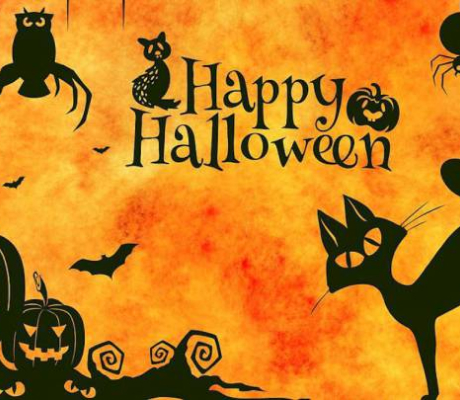
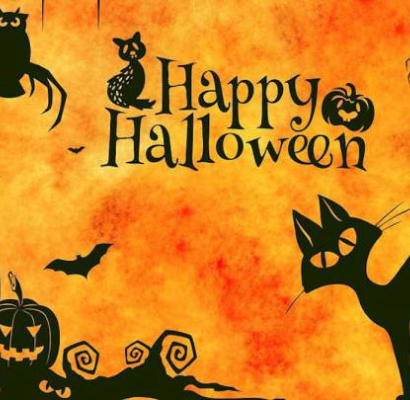
halloween acabado

diff --git a/index.html b/index.html
@@ -20,6 +20,8 @@
     <!-- Recordar que favicon.ico tiene que estar en el directorio inicial -->
 
     <!-- links de estilos -->
+
+    <link href="https://fonts.googleapis.com/css2?family=Grenze+Gotisch&display=swap" rel="stylesheet"> 
     <link rel="stylesheet" href="css/normalize.css" />
     <link rel="stylesheet" href="css/style.css" />
     <link rel="stylesheet" href="css/index.css" />
@@ -33,9 +35,11 @@
 
     <header class="header">
 
-      <img class="header__img1" src="img/desktop/gatos@1x.jpg" alt="">
+      
+
+      <img class="header__img1" src="img/desktop/calabaza1.jpg" alt="">
       <img class="header__img2" src="img/desktop/halloween@1x.jpg" alt="">
-      <img class="header__img3" src="img/desktop/gatos@2x.jpg" alt="">
+      <img class="header__img3" src="img/desktop/calabaza2.jpg" alt="">
 
       <!-- nav (el navegador de toda la web) -->
 
@@ -44,15 +48,50 @@
       </nav>
     </header>
     <!-- Main (centro de la página, zona central) -->
-    <main>
+    <main class="main">
+
+      <p class="main__parrafo1" > 
+
+
+        Halloween  también conocido como Noche de Brujas o Noche de Víspera de Difuntos, es una celebración moderna resultado del sincretismo originado por la cristianización de la fiesta del fin de verano de origen celta llamada Samhain, que perdura en Galicia y otros lugares como fiesta del Magosto.</p>
+
+      <h1 class="main__texto">Halloween</h1>
+
+      <p class="main__parrafo2">
+
+       
+
+        Se celebra internacionalmente en la noche del 31 de octubre, sobre todo en la angloesfera, como Estados Unidos y en menor medida en otros lugares como España e Iberoamérica. A pesar de pertenecer al mundo anglosajón, en Australia5 y Nueva Zelanda no se observa esta costumbre tanto como en los demás países.
+
+      </p>
       <!-- section y article (posibilidades dentro de main) -->
     </main>
     <!-- Footer (final de la página, zona inferior) -->
     <footer class="footer">
+
+      <p class="footer__parrafo1">
+        Hoy en día, Halloween es una de las fechas más importantes del calendario festivo estadounidense y canadiense. Algunos países iberoamericanos, conociendo aún esta festividad, tienen sus propias tradiciones y celebraciones ese mismo día, aunque coinciden en cuanto a su significado: la unión o extrema cercanía del mundo de los vivos y el reino de los muertos.
+
+        En Europa son muchas las ciudades en las que los jóvenes han decidido importar el modo con el que Estados Unidos concibe Halloween celebrándolo con fiestas y disfraces. Aunque en algunos lugares, como Inglaterra, la fiesta original ha arraigado de nuevo. 
+        
+
+
+      </p>
+
+      <img class="footer__img" src="img/desktop/halloween@2x.jpg" alt="">
+
+      <p  class="footer__parrafo2" >
+        En Europa son muchas las ciudades en las que los jóvenes han decidido importar el modo con el que Estados Unidos concibe Halloween celebrándolo con fiestas y disfraces. Aunque en algunos lugares, como Inglaterra, la fiesta original ha arraigado de nuevo. 
+
+        Hoy en día, Halloween es una de las fechas más importantes del calendario festivo estadounidense y canadiense. Algunos países iberoamericanos, conociendo aún esta festividad, tienen sus propias tradiciones y celebraciones ese mismo día, aunque coinciden en cuanto a su significado: la unión o extrema cercanía del mundo de los vivos y el reino de los muertos.
+      </p>
+
+
+
+      <a id="footer_imgbaja" href=""><img src="img/desktop/calabaza3.jpg" alt=""></a>
     </footer>
 
     <!-- *** Google Analytics *** -->
-    <script src="https://www.google-analytics.com/analytics.js" async></script>
   </div>
   </body>
 </html>

diff --git a/css/index.css b/css/index.css
@@ -4,16 +4,29 @@
 
 
 
+.container{
+    width: 100vh;
+    font-family: 'Grenze Gotisch', cursive;
+
+
+background-image: url(/halloween/img/desktop/fondo.svg);
+background-attachment: fixed;
+background-repeat: no-repeat;
+background-size: cover;
+width: 100%;
+
+
+}
+
 .header{
-    grid-column: 2/3;
+
     display: grid;
     grid-template-columns: 400px 800px 460px;
-    grid-template-rows: 1fr 1fr 1fr;
+    grid-template-rows: 1fr ;
 
-    background-image: url(/halloween/img/desktop/fondo.svg);
-    background-attachment: fixed;
-    background-repeat: no-repeat;
-    background-size: cover;
+    
+
+
 }
 
 .header__img1{
@@ -29,3 +42,74 @@
     grid-column: 3/3;
     
 }
+
+.main{
+    display: grid;
+    grid-template-columns: 400px 800px 460px;
+    grid-template-rows: 1fr ;
+
+    color: #c5c5c5;
+
+ 
+}
+
+.main__texto{
+    font-size: 10rem;
+    grid-column: 2/2;
+
+
+    margin: 0%;
+    text-align: center;
+    color: #cf7520;
+    
+}
+
+.main_parrafo1{
+    margin: 0%;
+    grid-column: 1/1;
+    text-align: center;
+
+}
+
+.main__parrafo2{
+
+    margin: 0%;
+    grid-column: 3/3;
+    text-align: center;
+
+
+}
+
+.footer{
+    display: grid;
+    grid-template-columns: 400px 800px 460px;
+    grid-template-rows: 1fr 1fr;
+    
+    background-image: url(/halloween/img/desktop/fondo.svg);
+    background-attachment: fixed;
+    background-repeat: no-repeat;
+    background-size: cover;
+
+    color: #c5c5c5;
+
+}
+
+.footer__parrafo1{
+    margin: 0%;
+    grid-column: 1/1;
+    text-align: center;
+
+}
+
+.footer__img{
+    grid-column: 2/2;
+
+}
+
+.footer__parrafo2{
+    margin: 0%;
+    text-align: center;
+    grid-column: 3/3;
+    grid-row: 1/1;
+}
+
